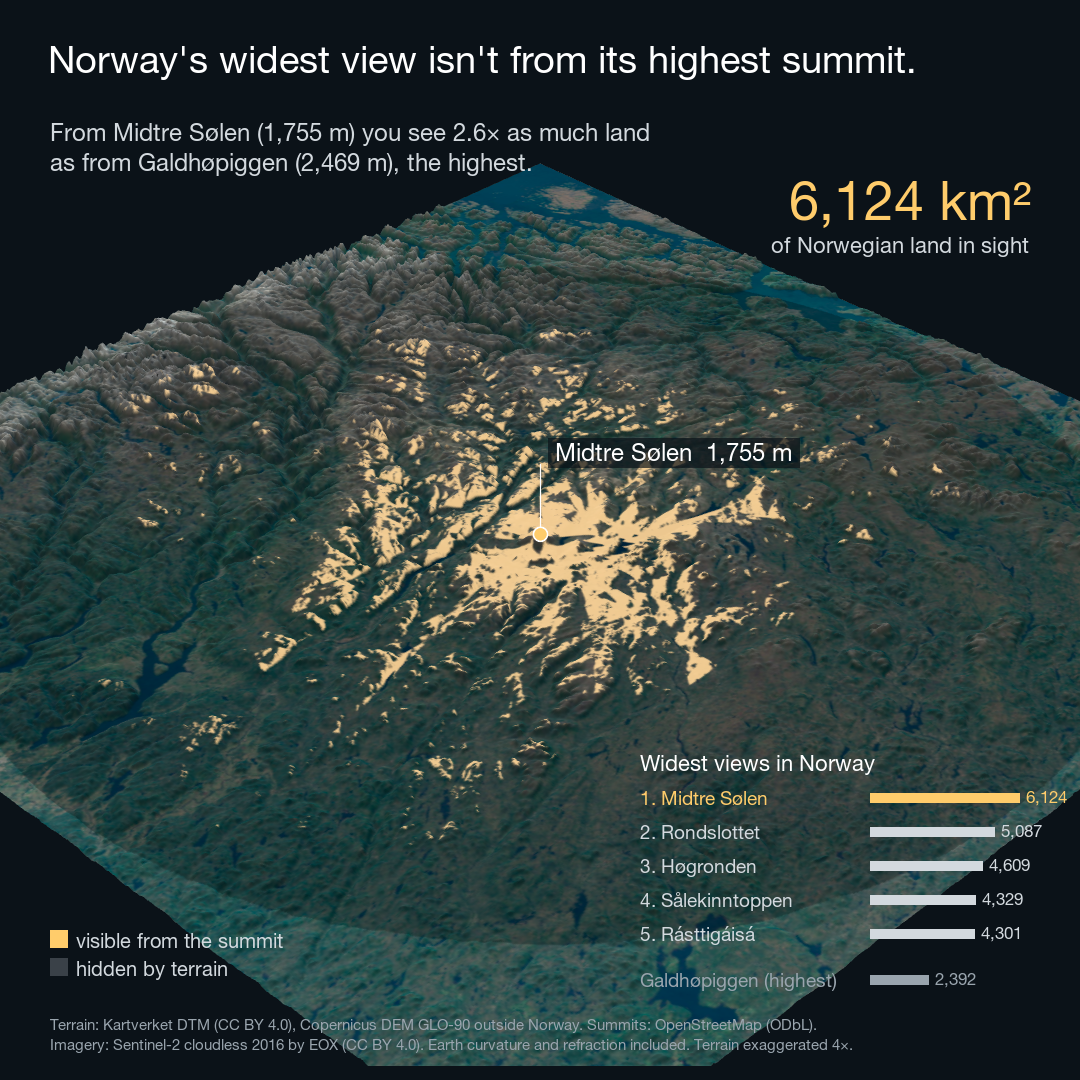
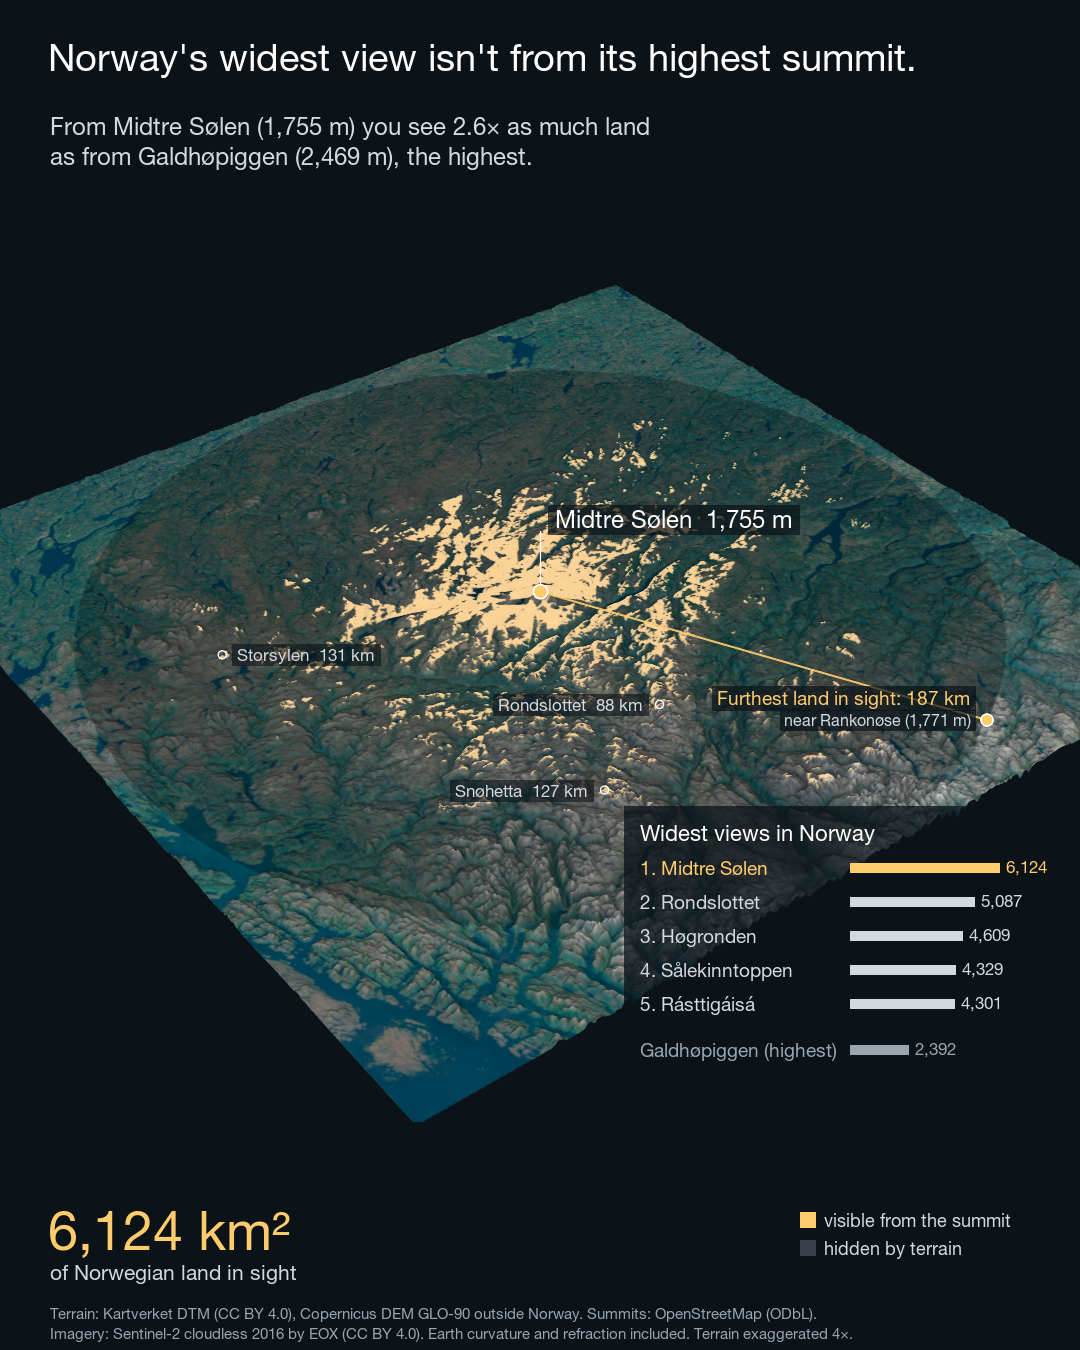
Widest view video v2: summit close-up, landmarks, sight line, 4:5
- Camera starts low over the summit and pulls back with the reveal
- Landmarks labelled only when the 100 m layer confirms they are visible
- Sight line to the furthest visible land (187 km)
- Every cell with any visible land now glows; partial cells were drawn as
  hidden before, understating 8.8% of the visible area
- New check: labelled points keep a margin from the frame edge
- 4:5 format with text bands for mobile feeds

diff --git a/06-widest-view/README.md b/06-widest-view/README.md
@@ -25,7 +25,7 @@ Open `Geospatial.Rproj` and run [run.R](run.R). Each stage caches its result in 
 2. **Summits.** Every named OpenStreetMap summit with an elevation of at least 1,000 m: 4,869 candidates, of which 8 were excluded because their OSM elevation disagrees with the terrain by more than plausible.
 3. **Visibility.** For each summit, a viewshed from 1.7 m above the summit (eye height), with Earth curvature and standard atmospheric refraction (GDAL, `curvcoef = 6/7`), out to 350 km. Because a grid cell holds the average height of its area, the observer is lifted from the cell to the true summit height.
 4. **Three resolutions.** All summits are screened at 500 m. The best 40 distinct summits (one per 3 km) are re-ranked at 200 m. The top 5, and Galdhøpiggen for comparison, are computed at 100 m.
-5. **Video.** The 100 m visibility layer, aggregated exactly to a 400 m scene grid, on top of Sentinel-2 cloudless imagery and the terrain in 3D (rayshader). The on-screen counter adds up visible area by distance and ends exactly on the 100 m result.
+5. **Video.** The 100 m visibility layer, aggregated exactly to a 400 m scene grid, on top of Sentinel-2 cloudless imagery and the terrain in 3D (rayshader), in 4:5 format for mobile feeds. The camera starts low over the summit and pulls back as the visible land is revealed outwards. The on-screen counter adds up visible area by distance and ends exactly on the 100 m result. Landmarks (Rondslottet 88 km, Snøhetta 127 km, Storsylen 131 km) are only labelled if the 100 m layer confirms they are visible, and a sight line marks the furthest visible land (187 km, near Rankonøse).
 
 ## Checks
 
@@ -34,7 +34,8 @@ Open `Geospatial.Rproj` and run [run.R](run.R). Each stage caches its result in 
 | Viewshed on a flat plane vs. the theoretical horizon (with refraction) | 1,000 m eye: 122.7 km vs 121.9 km. 2,000 m: 173.2 km vs 172.4 km. Both within one cell |
 | Same winner at 500 m and 200 m | Yes |
 | Rank agreement 500 m vs 200 m (top 40) | Spearman 0.83, top 10 overlap 9/10 |
-| Visible land inside the video frame, all frames | 100% (the check was verified to fail on a deliberately cropped camera) |
+| Revealed visible land inside the video frame, every frame | 100% (the check was verified to fail on a deliberately cropped camera) |
+| Labelled points (summit, landmarks, furthest point) away from the frame edge | Closest is 8% from an edge (minimum 6%) |
 
 ## Results depend on resolution, the ranking does not
 
@@ -46,6 +47,10 @@ Visible areas shrink as the terrain gets more detailed, because finer terrain hi
 | Galdhøpiggen | 4,106 km² | – | 2,392 km² |
 
 The steps get smaller (−17%, then −10%), so the numbers are converging but not final; at 10 m they would be lower still. The **ranking** is what the analysis supports: the same winner at every resolution, and Galdhøpiggen falls faster than the winner as detail increases, so the comparison only gets stronger. Galdhøpiggen ranked 56th of 2,807 distinct summits in the 500 m screening; that rank is not recomputed at 100 m.
+
+## What the picture shows, and a correction
+
+Far from the summit, visible land comes in thin slivers: ridges and upper slopes that cover only part of a 400 m scene cell. An early version of the video scaled the gold by the visible fraction and dimmed cells less than half visible, which drew 536 km² (8.8%) of the visible land as if it were hidden. The counter was right; the picture understated the distant view. Now every cell with any visible land glows (at least 45% strength, more where more of the cell is visible), and only cells with no visible land are dimmed. The edges of the scene are dark because nothing is visible there: only 41 km² (0.7%) of the visible land lies more than 150 km away.
 
 ## Limitations
 
